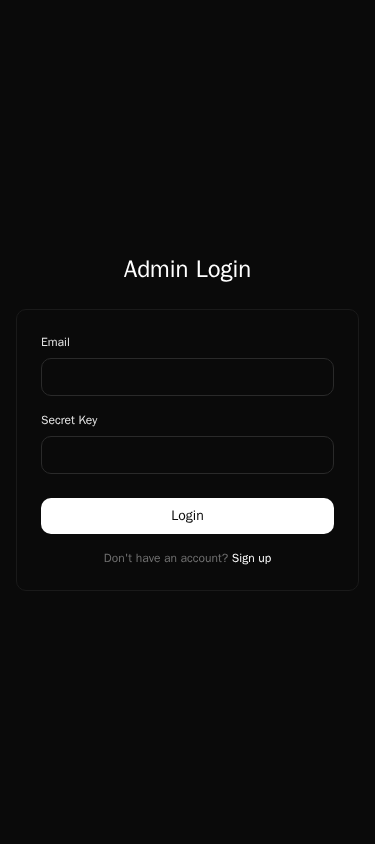
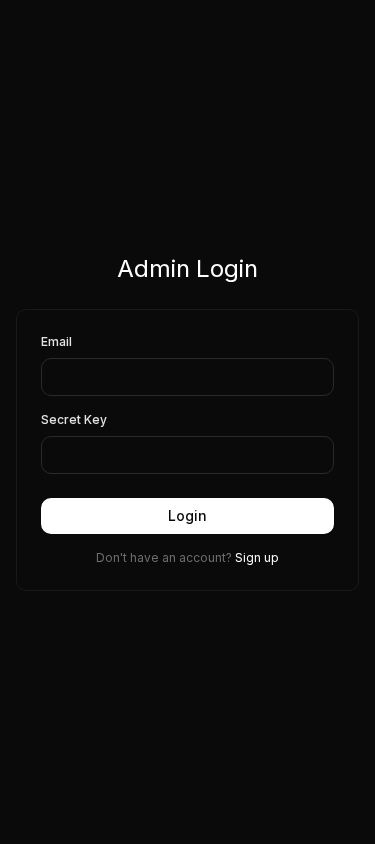
fix: keep one admin shell per route after the dev merge
PR #1 on dev renders .admin-shell in src/app/admin/layout.tsx while AdminLayout
rendered a second one, so the merged DOM nested two shells and every
locator('.admin-shell') assertion failed with a strict-mode violation (17 browser
tests). The route-level wrapper stays the single shell element - it is the one that
also covers /admin/login and /admin/signup - and AdminLayout's root becomes
admin-layout, whose min-height and background are already what the shell's base
layer rules provide.

PR #1's cursor rules move verbatim out of src/app/globals.css into
src/app/admin/admin.css, where every other admin rule lives; globals.css is then
byte-identical to the branch base again, so the branch carries no public CSS edit.

Adds tests/e2e/admin-shell-scope.spec.ts (7 tests: one shell per route on 7 routes,
no nested shell, token scope + pointer cursors on the auth screens, native select /
file input / disabled control cursors) and re-captures docs/admin-redesign/after-auth
on the merged tree, with the collision, the resolution and the merged-tree gate
recorded in README 4.12 and pr-summary.md.

diff --git a/tests/e2e/admin-shell-scope.spec.ts b/tests/e2e/admin-shell-scope.spec.ts
@@ -1,0 +1,109 @@
+import { expect, test, type Page } from '@playwright/test';
+import { loginAsAdmin } from './helpers/adminAuth';
+
+/* Merge-collision guard (correction checkpoint C11).
+   `origin/dev` (PR #1) added a route-level `.admin-shell` wrapper in src/app/admin/layout.tsx
+   plus the admin cursor rules, while this branch had its own `.admin-shell` on the root of
+   AdminLayout. Merged, every admin page rendered TWO nested shells and every
+   `locator('.admin-shell')` assertion died on a strict-mode violation (17 failures on the
+   merged tree). The contract these tests hold is therefore: exactly one `.admin-shell` per admin
+   route, owned by the route layout so it also covers /admin/login and /admin/signup, and PR #1's
+   cursor behaviour still applies - from src/app/admin/admin.css, where those rules now live so
+   that admin chrome is styled in one place and globals.css keeps only public selectors. */
+
+const AUTHED_ROUTES = [
+  '/admin',
+  '/admin/sections',
+  '/admin/subsections',
+  '/admin/posts',
+  '/admin/tags',
+  '/admin/profile',
+  '/admin/posts/new',
+];
+
+async function gotoAuthed(page: Page, path: string) {
+  await loginAsAdmin(page);
+  await page.goto(path);
+}
+
+function computed(page: Page, selector: string, property: string) {
+  return page.evaluate(
+    ([s, p]) => {
+      const el = document.querySelector(s);
+      return el ? getComputedStyle(el).getPropertyValue(p) : 'MISSING';
+    },
+    [selector, property]
+  );
+}
+
+test.describe('admin shell scope - exactly one shell per route', () => {
+  test('every authenticated admin route renders one and only one .admin-shell', async ({
+    page,
+  }) => {
+    for (const path of AUTHED_ROUTES) {
+      await gotoAuthed(page, path);
+      await expect(page.locator('.admin-shell'), path).toHaveCount(1);
+      await expect(page.locator('.admin-shell'), path).toBeVisible();
+      // Nested shells are the exact regression: the route layout must not be doubled by
+      // AdminLayout re-applying the class.
+      expect(await page.evaluate(() => document.querySelectorAll('.admin-shell .admin-shell').length)).toBe(
+        0
+      );
+    }
+  });
+
+  test('the route layout owns the shell, so the auth screens are token-scoped too', async ({
+    page,
+  }) => {
+    await page.goto('/admin/login');
+    const shell = page.locator('.admin-shell');
+    await expect(shell).toHaveCount(1);
+    await expect(shell).toBeVisible();
+    // --admin-* resolves on this screen even though AdminLayout never renders it, and the shell
+    // paints the admin background instead of the browser default.
+    await expect
+      .poll(() =>
+        page.evaluate(() => getComputedStyle(document.body).getPropertyValue('--admin-bg').trim())
+      )
+      .toMatch(/^#[0-9a-f]{3,6}$/i);
+    await expect(shell).toHaveCSS('background-color', 'rgb(5, 5, 5)');
+    await expect(shell).toHaveCSS('color', 'rgb(187, 187, 187)');
+  });
+
+  test('/admin/signup is scoped by the same shell even when it redirects to login', async ({
+    page,
+  }) => {
+    await page.goto('/admin/signup');
+    await expect(page).toHaveURL(/\/admin\/login$/);
+    await expect(page.locator('.admin-shell')).toHaveCount(1);
+  });
+});
+
+test.describe('admin shell scope - PR #1 pointer cursors survive the consolidation', () => {
+  test('a native select with no cursor utility of its own gets a pointer', async ({ page }) => {
+    await gotoAuthed(page, '/admin/posts');
+    await expect(page.getByRole('heading', { level: 1, name: 'Posts' })).toBeVisible();
+    await expect(page.locator('[data-slot="admin-select"]')).toHaveCount(3);
+    expect(await computed(page, '[data-slot="admin-select"]', 'cursor')).toBe('pointer');
+  });
+
+  test('the legacy login submit button keeps its pointer cursor', async ({ page }) => {
+    await page.goto('/admin/login');
+    const submit = page.getByRole('button', { name: 'Login' });
+    await expect(submit).toBeEnabled();
+    await expect(submit).toHaveCSS('cursor', 'pointer');
+  });
+
+  test('a file input keeps its pointer cursor on a converted screen', async ({ page }) => {
+    await gotoAuthed(page, '/admin/profile');
+    await expect(page.getByRole('heading', { level: 1, name: 'Profile' })).toBeVisible();
+    expect(await computed(page, 'input[type="file"]', 'cursor')).toBe('pointer');
+  });
+
+  test('a disabled control still reads as non-interactive', async ({ page }) => {
+    await gotoAuthed(page, '/admin/posts');
+    const previous = page.getByRole('button', { name: 'Previous' });
+    await expect(previous).toBeDisabled();
+    await expect(previous).toHaveCSS('cursor', 'not-allowed');
+  });
+});

diff --git a/src/app/admin/admin.css b/src/app/admin/admin.css
@@ -177,6 +177,37 @@ html.dark body:has(.admin-shell) {
   outline-offset: var(--admin-ring-offset);
 }
 
+/* Control cursors. Tailwind v4 preflight keeps `appearance: button` but gives buttons no
+   cursor, so every admin control rendered the default arrow; PR #1 (dev@6be9daa) fixed that with
+   these exact rules in src/app/globals.css. They live here instead because this file is the only
+   place admin chrome is styled: the single `.admin-shell` element is rendered by
+   src/app/admin/layout.tsx, the same module that imports this stylesheet, so every admin route
+   (including /admin/login and /admin/signup, which do not use AdminLayout) gets them, and
+   src/app/globals.css is left holding only public `.site-shell` selectors. They stay unlayered,
+   exactly as on dev, so a control cannot lose its pointer by carrying a utility class. */
+.admin-shell button,
+.admin-shell [role="button"],
+.admin-shell input[type="button"],
+.admin-shell input[type="submit"],
+.admin-shell input[type="reset"],
+.admin-shell input[type="file"],
+.admin-shell input[type="checkbox"],
+.admin-shell input[type="radio"],
+.admin-shell select,
+.admin-shell summary,
+.admin-shell label:has(input[type="checkbox"]),
+.admin-shell label:has(input[type="radio"]) { cursor: pointer; }
+/* Disabled controls stay visibly non-interactive. */
+.admin-shell button:disabled,
+.admin-shell [role="button"][aria-disabled="true"],
+.admin-shell input[type="button"]:disabled,
+.admin-shell input[type="submit"]:disabled,
+.admin-shell input[type="reset"]:disabled,
+.admin-shell input[type="file"]:disabled,
+.admin-shell input[type="checkbox"]:disabled,
+.admin-shell input[type="radio"]:disabled,
+.admin-shell select:disabled { cursor: not-allowed; }
+
 @media (max-width: 849px) {
   body:has(.admin-shell) { --admin-gutter: 16px; --admin-panel-pad: 16px; }
 }

diff --git a/src/app/globals.css b/src/app/globals.css
@@ -493,32 +493,6 @@ html:not(.dark) .site-shell .site-brand { color: #111; }
   .site-mobile-socials .site-social-links { gap: 12px 18px; }
 }
 
-/* Admin control cursors. Tailwind v4 preflight keeps `appearance: button` but gives buttons no
-   cursor, so every admin control renders the default arrow. Scoped to the `.admin-shell` wrapper
-   (src/app/admin/layout.tsx) the same way the `.site-shell` rules above scope the public site. */
-.admin-shell button,
-.admin-shell [role="button"],
-.admin-shell input[type="button"],
-.admin-shell input[type="submit"],
-.admin-shell input[type="reset"],
-.admin-shell input[type="file"],
-.admin-shell input[type="checkbox"],
-.admin-shell input[type="radio"],
-.admin-shell select,
-.admin-shell summary,
-.admin-shell label:has(input[type="checkbox"]),
-.admin-shell label:has(input[type="radio"]) { cursor: pointer; }
-/* Disabled controls stay visibly non-interactive. */
-.admin-shell button:disabled,
-.admin-shell [role="button"][aria-disabled="true"],
-.admin-shell input[type="button"]:disabled,
-.admin-shell input[type="submit"]:disabled,
-.admin-shell input[type="reset"]:disabled,
-.admin-shell input[type="file"]:disabled,
-.admin-shell input[type="checkbox"]:disabled,
-.admin-shell input[type="radio"]:disabled,
-.admin-shell select:disabled { cursor: not-allowed; }
-
 @theme inline {
   --color-destructive-foreground: var(--destructive-foreground);
   --color-sidebar-ring: var(--sidebar-ring);

diff --git a/src/components/admin/adminLayout.tsx b/src/components/admin/adminLayout.tsx
@@ -69,8 +69,12 @@ export function AdminLayout({ children }: AdminLayoutProps) {
     return null;
   }
 
+  // The token/cursor scope itself is the single `.admin-shell` element rendered by
+  // src/app/admin/layout.tsx (the route-level layout, which also covers /admin/login and
+  // /admin/signup); this div is only the authenticated chrome inside it, so it must not
+  // repeat that class or every admin page would nest two shells.
   return (
-    <div className="admin-shell min-h-screen bg-[color:var(--admin-bg)]">
+    <div className="admin-layout min-h-screen">
       <a
         href="#admin-main"
         className="fixed left-2 top-2 z-[60] rounded-[var(--admin-radius-control)] bg-[color:var(--admin-surface)] px-[var(--admin-space-3)] py-2 text-[length:var(--admin-text-meta)] text-[color:var(--admin-heading)] shadow-[var(--admin-shadow-drawer)] [-webkit-transform:translateY(-200%)] [transform:translateY(-200%)] focus:[-webkit-transform:none] focus:[transform:none]"

diff --git a/docs/admin-redesign/README.md b/docs/admin-redesign/README.md
@@ -1007,9 +1007,12 @@ finding, not a capture bug).
 - **Image upload success** (profile picture and post cover): there are no Cloudinary credentials in
   this environment, so the success path cannot be evidenced at all. Its failure path is proven
   twice, and both times the form keeps what was typed.
-- **`/admin/login` and `/admin/signup` in the light theme**: they still render their own
-  `bg-[#0a0a0a]` card outside `.admin-shell` (the pre-existing exception carried in section 7), so
-  `after-auth/`'s dark and light pairs are identical. Converting them is a styling pass that no
+- **The `/admin/login` and `/admin/signup` card in the light theme**: after the merge with `dev`
+  these routes are inside the single `.admin-shell` (README 4.12), so the token scope reaches them -
+  the shell itself now paints `rgb(5, 5, 5)` / `rgb(255, 255, 255)` behind the card and the card's
+  text renders in the admin's Inter. The card keeps its own hard-coded `bg-[#0a0a0a]` and
+  `text-white`, and it covers the viewport, so `after-auth/`'s dark and light pairs are still
+  byte-identical (15033 and 10499 bytes). Re-colouring the card itself is a styling pass that no
   acceptance row depends on; it is not done and not claimed.
 - **Screen-reader output**: no AT is installed, so "screen reader support" is evidenced by
   `aria-current`, `aria-expanded`, `aria-modal`, accessible names and focus restoration, not by
@@ -1045,6 +1048,65 @@ back), and the seeded counts are read from the endpoints rather than hard-coded.
 
 The seven deliverables of `docs/admin-redesign-plan.md:11-19`, mapped to the files that carry them,
 is in [`pr-summary.md`](pr-summary.md); it is the body of the pull request against `dev`.
+The merge with `dev` that happened after this section was written, and the single-shell fix it
+required, are in 4.12 below.
+
+### 4.12 Merge with `dev` and the `.admin-shell` collision (correction checkpoint C11)
+
+The exit gate failed on the **merged result**, not on this branch: `dev` had moved to `5cabc81`
+(PR #1 `fix/admin-cursor-pointer`, which wrapped every `/admin` route in `<div className="admin-shell">`
+in `src/app/admin/layout.tsx` and put the admin cursor rules in `src/app/globals.css`), while this
+branch put the same class on the root of `AdminLayout`. GitHub still reported `mergeable: true`, so
+nothing but running the suite on the merge result would show it: **`npx playwright test` = 17 failed /
+66 passed**, every failure a `strict mode violation: resolved to 2 elements` on `locator('.admin-shell')`
+(16 shell specs plus the WCAG contrast test) - `/tmp/cora/merge-pw.log`.
+
+#### What was done
+
+| C11 requirement | Change | Proof |
+| --- | --- | --- |
+| Forward merge only | `git merge --no-ff origin/dev` -> merge commit `0d78086`; no rebase, no force-push, `dev` and `main` untouched, the PR never merged by us | `git log --graph -4`, `git ls-remote origin refs/heads/feat/admin-redesign-run` |
+| Exactly one `.admin-shell` per admin page, route layout preferred | Kept dev's wrapper as the single element (`src/app/admin/layout.tsx:7`) and dropped the duplicate class from `AdminLayout` (`src/components/admin/adminLayout.tsx:77` is now `admin-layout min-h-screen`; the `min-h-screen`/background it carried is already what `@layer base .admin-shell` does, so nothing was lost). `src/components/admin/dashboard/adminDashboard.tsx:159` is **not** a second shell - `max-w-[var(--admin-shell-max)]` is the layout token's *name*, not the class | `tests/e2e/admin-shell-scope.spec.ts` "every authenticated admin route renders one and only one .admin-shell" over 7 routes: `toHaveCount(1)` plus `document.querySelectorAll('.admin-shell .admin-shell').length === 0`. Whole-tree check: `grep -rn admin-shell src --include=*.tsx` returns exactly one `className` |
+| PR #1's cursor behaviour kept, and admin styling not split across two scopes | The cursor block was moved **verbatim** (22 selectors) out of `src/app/globals.css` into `src/app/admin/admin.css:180-209`, where every other admin rule lives. It stays unlayered, as on dev, so a control cannot lose its pointer by carrying a utility. Consequence worth naming: with that removal `src/app/globals.css` is byte-identical to the branch base again (`git diff --stat cd65d5d -- src/app/globals.css` is empty), so the PR now contains **no public CSS edit at all** | `admin-shell-scope.spec.ts`: a native `select` (which has no cursor utility of its own) computes `pointer`; the legacy `button[type=submit]` on `/admin/login` computes `pointer`; an `input[type=file]` computes `pointer`; a disabled control computes `not-allowed` |
+| `/admin/login` and `/admin/signup` still receive the token scope | They get it from the route layout rather than from `AdminLayout` (which they never rendered). This is a real, small visual change and is recorded as such: the shell behind the card now paints `rgb(5, 5, 5)` / `rgb(255, 255, 255)` and the card's text renders in the admin's Inter instead of the body's `ui-sans-serif`; the card's own `bg-[#0a0a0a]` / `text-white` utilities still win, so the dark and light captures stay byte-identical | `admin-shell-scope.spec.ts`: `/admin/login` has one shell, `--admin-bg` resolves, shell `background-color: rgb(5, 5, 5)` and `color: rgb(187, 187, 187)`; `/admin/signup` -> `/admin/login` with one shell. `after-auth/` re-captured on the merged tree (`shells=1`, `submitCursor=pointer`, 15033 / 10499 bytes) |
+
+#### Merged-tree verification (every command re-run on the merged tree)
+
+| Command | Result | Log |
+| --- | --- | --- |
+| `npm run build` | exit 0, 39 static pages (run twice: once after the merge, once cold after `rm -rf .next`) | `admin-run-iter13/build-merged.log`, `build-merged-cold.log` |
+| `npx tsc --noEmit` | exit 0 | `admin-run-iter13/tsc-merged.log` |
+| `npx vitest run` | exit 0, 118 passed / 13 files | `admin-run-iter13/vitest-merged.log` |
+| `npx playwright test` | **exit 0, 90 passed in 3.3m, 0 failed** (was 17 failed / 66 passed on the same merged tree before the fix; 83 + the 7 new shell-scope tests) | `admin-run-iter13/playwright-full-merged.log` |
+| `npx eslint .` | 34 errors / 20 warnings, unchanged from the pre-merge record and inside the 48/24 budget; `src/app/admin/layout.tsx`, `src/components/admin/adminLayout.tsx` and `tests/e2e/admin-shell-scope.spec.ts` are all 0/0 | `admin-run-iter13/eslint-merged.json` |
+| `npx prisma migrate status` | 15 migrations found, "Database schema is up to date!" | `admin-run-iter13/migrate-status-merged.log` |
+| `git diff --stat dc23de5..HEAD` | the merge touches only `src/app/admin/layout.tsx` and `src/app/globals.css`; the fix on top touches those two plus `adminLayout.tsx`, `admin.css`, one new spec and the docs | `admin-run-iter13/git-diff-stat.log` |
+
+#### Public regression sweep re-run on the merged tree
+
+`admin-run-iter12/public-status.sh` (24 routes + 14 content markers, no database access) against the
+cold merged build on `:3099`, port-normalised diff against the recorded base `cd65d5d` sweep:
+**empty** - `gate-public-status-MERGED.txt` vs `gate-public-status-BEFORE.txt`, every HTTP code and
+marker identical. The first run of this sweep showed one difference, `/scratch/hidden-scratch-note`
+200 instead of 404; it was **not** a code change but the on-disk ISR cache
+(`.next/server/app/scratch/hidden-scratch-note.html`) left by the acceptance spec's subsection
+visibility lifecycle, which un-hides, requests and re-hides that route in one sitting. A cold build +
+cold server + re-seed answers 404, and the database says the subsection is hidden and that post
+unpublished. The gate record's ordering (sweep before the suites) is what kept iteration 12 clean, and
+any future gate run must keep that order.
+
+`admin-run-iter13/gate-auth-roundtrip.sh` (the same script as the gate) on the merged build is
+identical to the base transcript except the one intended admin-only difference already named in the
+gate record: `GET /api/admin/stats` returns the extended `{sections, hiddenSections, subsections,
+hiddenSubsections, published, drafts, totalPosts, tags}` shape (`gate-auth-MERGED.txt`).
+
+Visual parity of the shell refactor, measured rather than asserted: `/admin/sections` at
+1440x900 dark, 1440x900 light and 375x844 dark is **0 differing pixels** against the committed
+pre-merge captures (`after-screens/cp5-sections-*`), so moving the class and the cursor rules changed
+nothing on a converted screen (`admin-run-iter13/merged-visual-parity.mjs`, `shots/capture-notes.txt`).
+`/admin/login` differs from its pre-merge capture by 3760 px (0.29%), entirely inside the card, and is
+the Inter substitution described in the table above; the profile row in that run is not comparable
+because its reference predates the `githubLink` field.
 
 ## 5. Where admin density needs more width and stronger action hierarchy
 
@@ -1119,8 +1181,10 @@ these PNGs.
   integration (§4.7) is the only public diff: one added line in each of the three profile reads and
   one changed `href` in each of `src/components/public/SocialLinks.tsx` and `Sidebar.tsx`.
 - Still open inside the shell checkpoint, deliberately deferred: `/admin/login` and
-  `/admin/signup` keep their legacy card (no `.admin-shell`, so they remain theme-dead)
-  and are converted in the auth-screen pass, and the shell offers "Log out" in both the
+  `/admin/signup` keep their legacy hard-coded card *inside* the shell (the shell scope reaches them
+  since the merge in README 4.12, but the card's own `bg-[#0a0a0a]` / `text-white` utilities still
+  win over it, so they stay theme-dead) and are converted in the auth-screen pass, and the shell
+  offers "Log out" in both the
   top bar and the sidebar/drawer, which the checkpoint-4 button primitive will
   de-duplicate. `FullScreenLoader` still paints outside the shell with its own dark
   hexes until the checkpoint-4 loading state lands.

diff --git a/docs/admin-redesign/pr-summary.md b/docs/admin-redesign/pr-summary.md
@@ -2,8 +2,9 @@
 
 Deliverables are the seven rows of `docs/admin-redesign-plan.md:11-19`; each is mapped to the files
 that carry it, with the tests and screenshots that prove it. Design rationale and the measured
-verification tables are in [`README.md`](README.md) (sections 4.1-4.10); the acceptance run record is
-[README 4.10](README.md#410-acceptance-run-record-checkpoint-10).
+verification tables are in [`README.md`](README.md) (sections 4.1-4.12); the acceptance run record is
+[README 4.10](README.md#410-acceptance-run-record-checkpoint-10) and the merge with `dev` plus the
+single-shell fix it required is [README 4.12](README.md#412-merge-with-dev-and-the-admin-shell-collision-correction-checkpoint-c11).
 
 ## 1. Admin design system
 
@@ -14,7 +15,9 @@ verification tables are in [`README.md`](README.md) (sections 4.1-4.10); the acc
   `html.dark body:has(.admin-shell)`, reusing the public palette from `src/app/globals.css:240-269`.
   Flat surfaces only - the public generative/tree background is deliberately not carried in. It also
   owns the one unlayered `:focus-visible` rule and the `.admin-md-preview` re-colouring.
-- `src/app/admin/layout.tsx` - imports the stylesheet once, so it loads on `/admin` only.
+- `src/app/admin/layout.tsx` - imports the stylesheet once, so it loads on `/admin` only, and renders
+  the single `.admin-shell` element that scopes every admin route including `/admin/login` and
+  `/admin/signup` (that wrapper came from `dev` PR #1 in the merge described below; see README 4.12).
 - `src/components/admin/adminLayout.tsx` - the first consumer; its ten hard-coded hex values became
   token utilities.
 - Proof: README 4.1 (9-row measured verification table, hard-coded colour census 304 -> 39 literals
@@ -27,7 +30,8 @@ verification tables are in [`README.md`](README.md) (sections 4.1-4.10); the acc
   with `aria-current="page"`, an ordinary `target="_blank" rel="noopener noreferrer"` "View site"
   link, logout, the existing `next-themes` `ThemeToggleButton`, and the current location as
   `data-admin-location`.
-- `src/components/admin/adminLayout.tsx` - composes the shell: drawer + scrim with `aria-expanded` /
+- `src/components/admin/adminLayout.tsx` - composes the shell (`admin-layout`, deliberately not a
+  second `.admin-shell`): drawer + scrim with `aria-expanded` /
   `aria-controls` / `role="dialog"`, body scroll lock, skip link to a focusable `main#admin-main`,
   stacking `top bar > drawer > scrim > sidebar`, auth redirect and `adminApi.logout()` preserved.
 - `src/hooks/useFocusTrap.ts` (new) - Escape, two-way Tab containment with `preventDefault` on every
@@ -105,8 +109,8 @@ verification tables are in [`README.md`](README.md) (sections 4.1-4.10); the acc
 
 ## 7. Verification package
 
-- `tests/unit/` (9 files, 94 tests), `tests/integration/` (4 files, 24 tests), `tests/e2e/` (8 files,
-  83 browser tests) plus `tests/e2e/helpers/adminAuth.ts` and `tests/integration/helpers/session.ts`,
+- `tests/unit/` (9 files, 94 tests), `tests/integration/` (4 files, 24 tests), `tests/e2e/` (9 files,
+  90 browser tests) plus `tests/e2e/helpers/adminAuth.ts` and `tests/integration/helpers/session.ts`,
   `vitest.config.ts`, `playwright.config.ts`, and `test` / `test:unit` / `test:e2e` scripts in
   `package.json`. Coverage map: README 4.8.
 - `tests/e2e/admin-acceptance.spec.ts` (new, 12 tests) is the acceptance table: route protection and
@@ -117,6 +121,28 @@ verification tables are in [`README.md`](README.md) (sections 4.1-4.10); the acc
   `after-controls/` 24, `after-screens/` 48, `after-editor/` 22, `after-github-link/` 12,
   `after-auth/` 4.
 - Written spec and run records: README sections 1-7.
+
+## 8. Merge with `dev` (PR #1) and the single `.admin-shell`
+
+The branch was merged forward into `origin/dev@5cabc81` (which had taken PR #1,
+`fix/admin-cursor-pointer`) with an ordinary merge commit - no rebase, no force-push. PR #1 added a
+route-level `.admin-shell` wrapper and the admin cursor rules in `src/app/globals.css`; this branch
+already used that class inside `AdminLayout`, so the merged DOM had two nested shells and 17 browser
+tests failed on `locator('.admin-shell')` resolving to 2 elements even though GitHub reported the PR
+`mergeable`. Resolution, verified in `tests/e2e/admin-shell-scope.spec.ts` (7 tests):
+
+- the route layout keeps the single `.admin-shell` (so the token scope still covers
+  `/admin/login` / `/admin/signup`), and `AdminLayout`'s root is now `admin-layout`;
+- PR #1's cursor rules move verbatim to `src/app/admin/admin.css`, where the rest of the admin chrome
+  is styled, which leaves `src/app/globals.css` byte-identical to the branch base - this PR contains
+  no public CSS edit at all;
+- the whole gate is re-run on the merged tree: build 0 (39 pages), `tsc` 0, `vitest` 118/118,
+  `playwright` 90/90 in 3.3m, `eslint` 34 errors / 20 warnings with 0 problems on the touched files,
+  `prisma migrate status` clean, and the public 24-route sweep plus the auth round trip identical to
+  the recorded baseline (one intended admin-only `stats` difference already named below).
+
+Details, measurements and the two false positives that had to be explained (a stale on-disk ISR cache
+answer for a hidden post, and a 0.29% font difference on `/admin/login`) are in README 4.12.
 
 ## Migration and rollback
 
@@ -135,9 +161,11 @@ verification tables are in [`README.md`](README.md) (sections 4.1-4.10); the acc
 1. **No Cloudinary credentials in this environment.** The image-upload *success* path (profile
    picture, post cover) cannot be evidenced; the failure path is (visible actionable error, input
    retained, nothing stored) - `admin-failure-paths.spec.ts` and `admin-post-editor.spec.ts`.
-2. **`/admin/login` and `/admin/signup` are still outside `.admin-shell`.** They keep their
-   pre-redesign card and therefore ignore the light theme; `after-auth/`'s dark and light files are
-   byte-identical, which is the measurement, not a capture bug. No acceptance row depends on them.
+2. **The `/admin/login` and `/admin/signup` card is still pre-redesign styling.** Since the merge they
+   sit *inside* the single `.admin-shell` and so inherit its tokens (background, Inter, the pointer
+   cursor), but the card keeps hard-coded `bg-[#0a0a0a]` / `text-white` utilities that win over the
+   base layer and fill the viewport, so `after-auth/`'s dark and light files stay byte-identical -
+   which is the measurement, not a capture bug. No acceptance row depends on them.
 3. **No assistive technology is installed**, so screen-reader support is asserted through ARIA
    semantics, accessible names and focus restoration rather than by listening to a reader.
 4. **Public pages are ISR (`revalidate = 60`, `stale-while-revalidate = 31535940`) and that is
